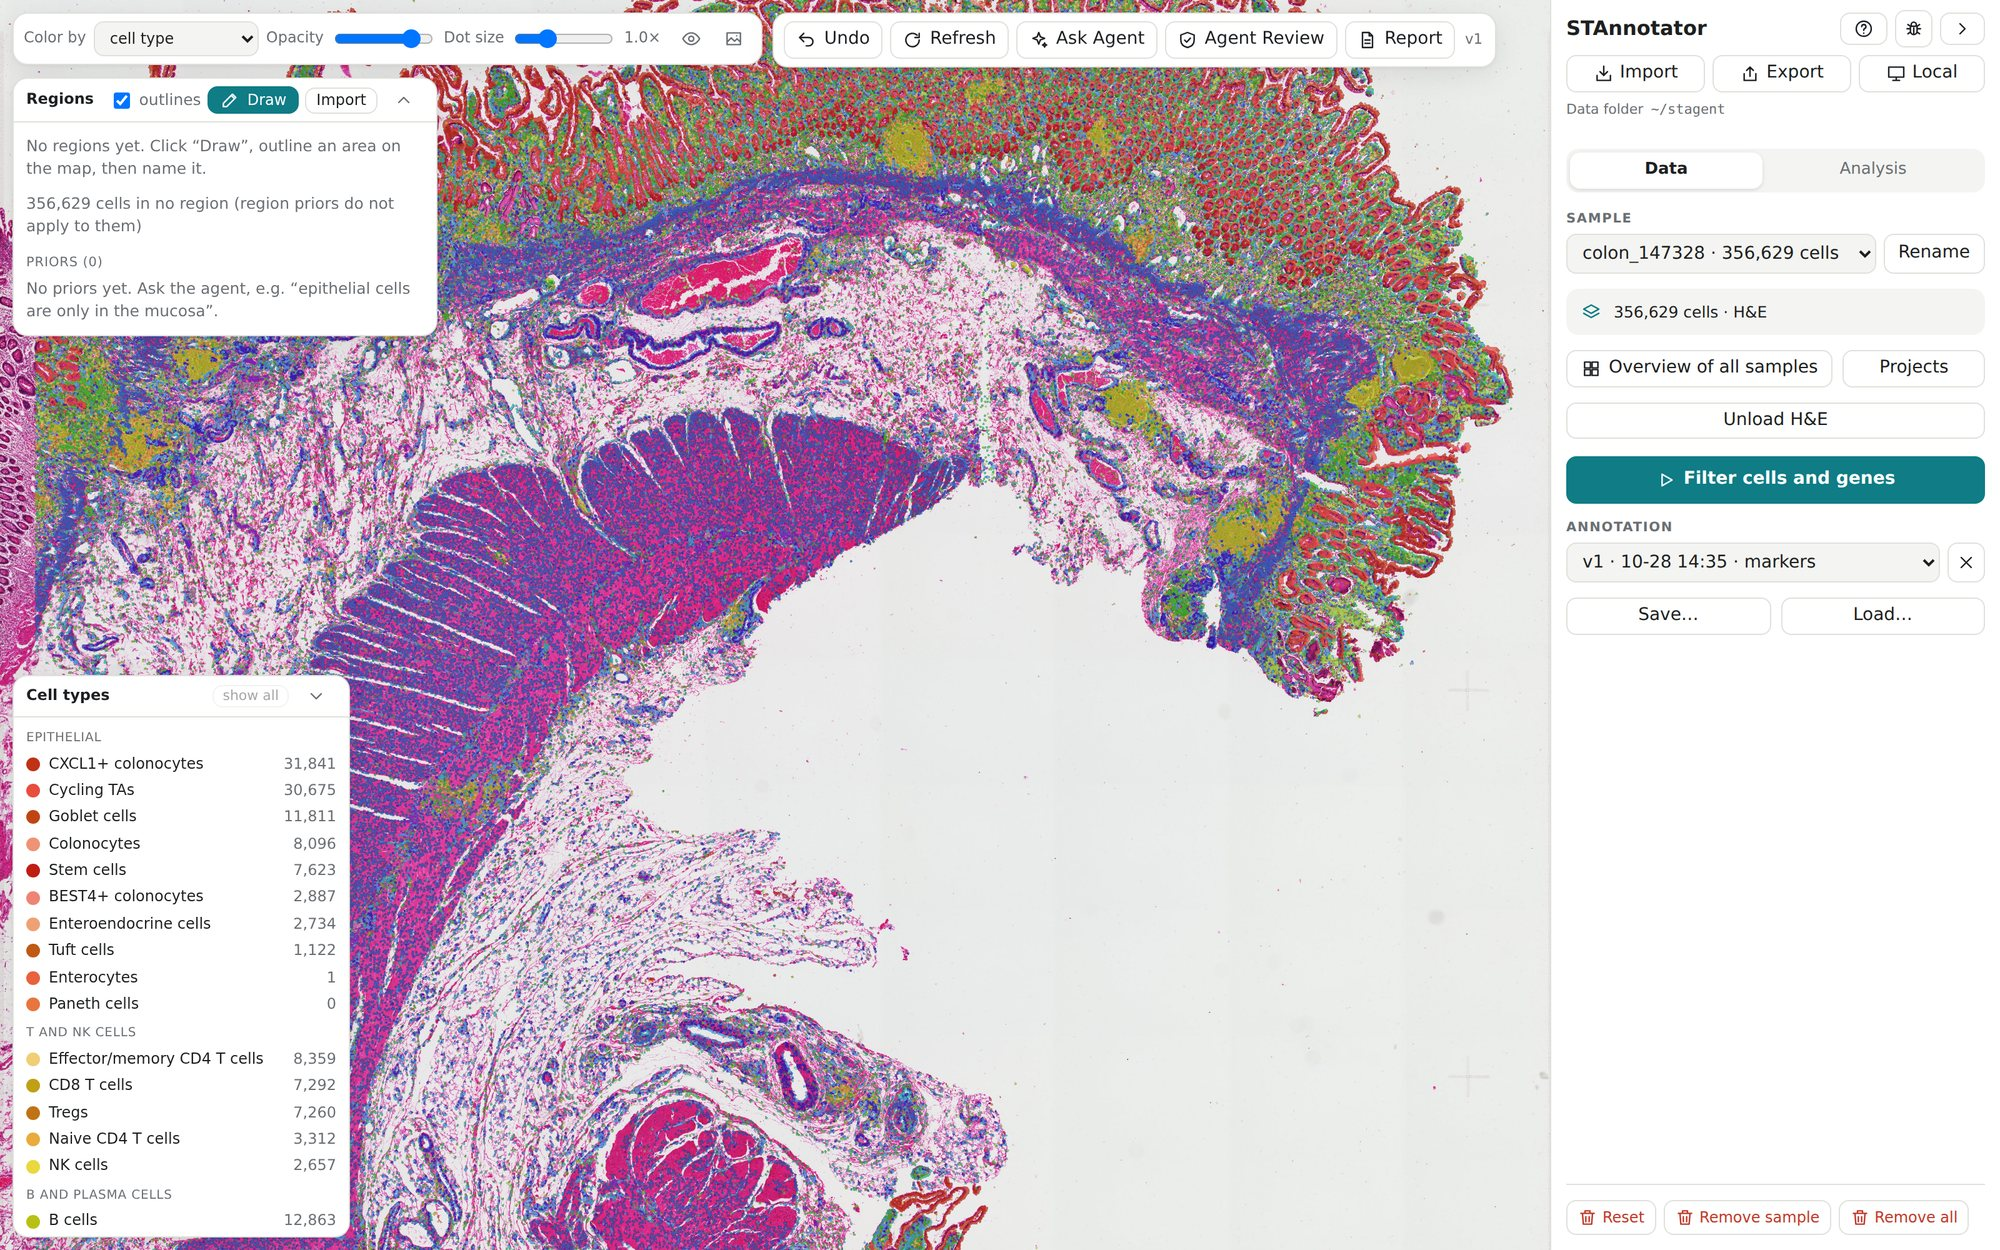
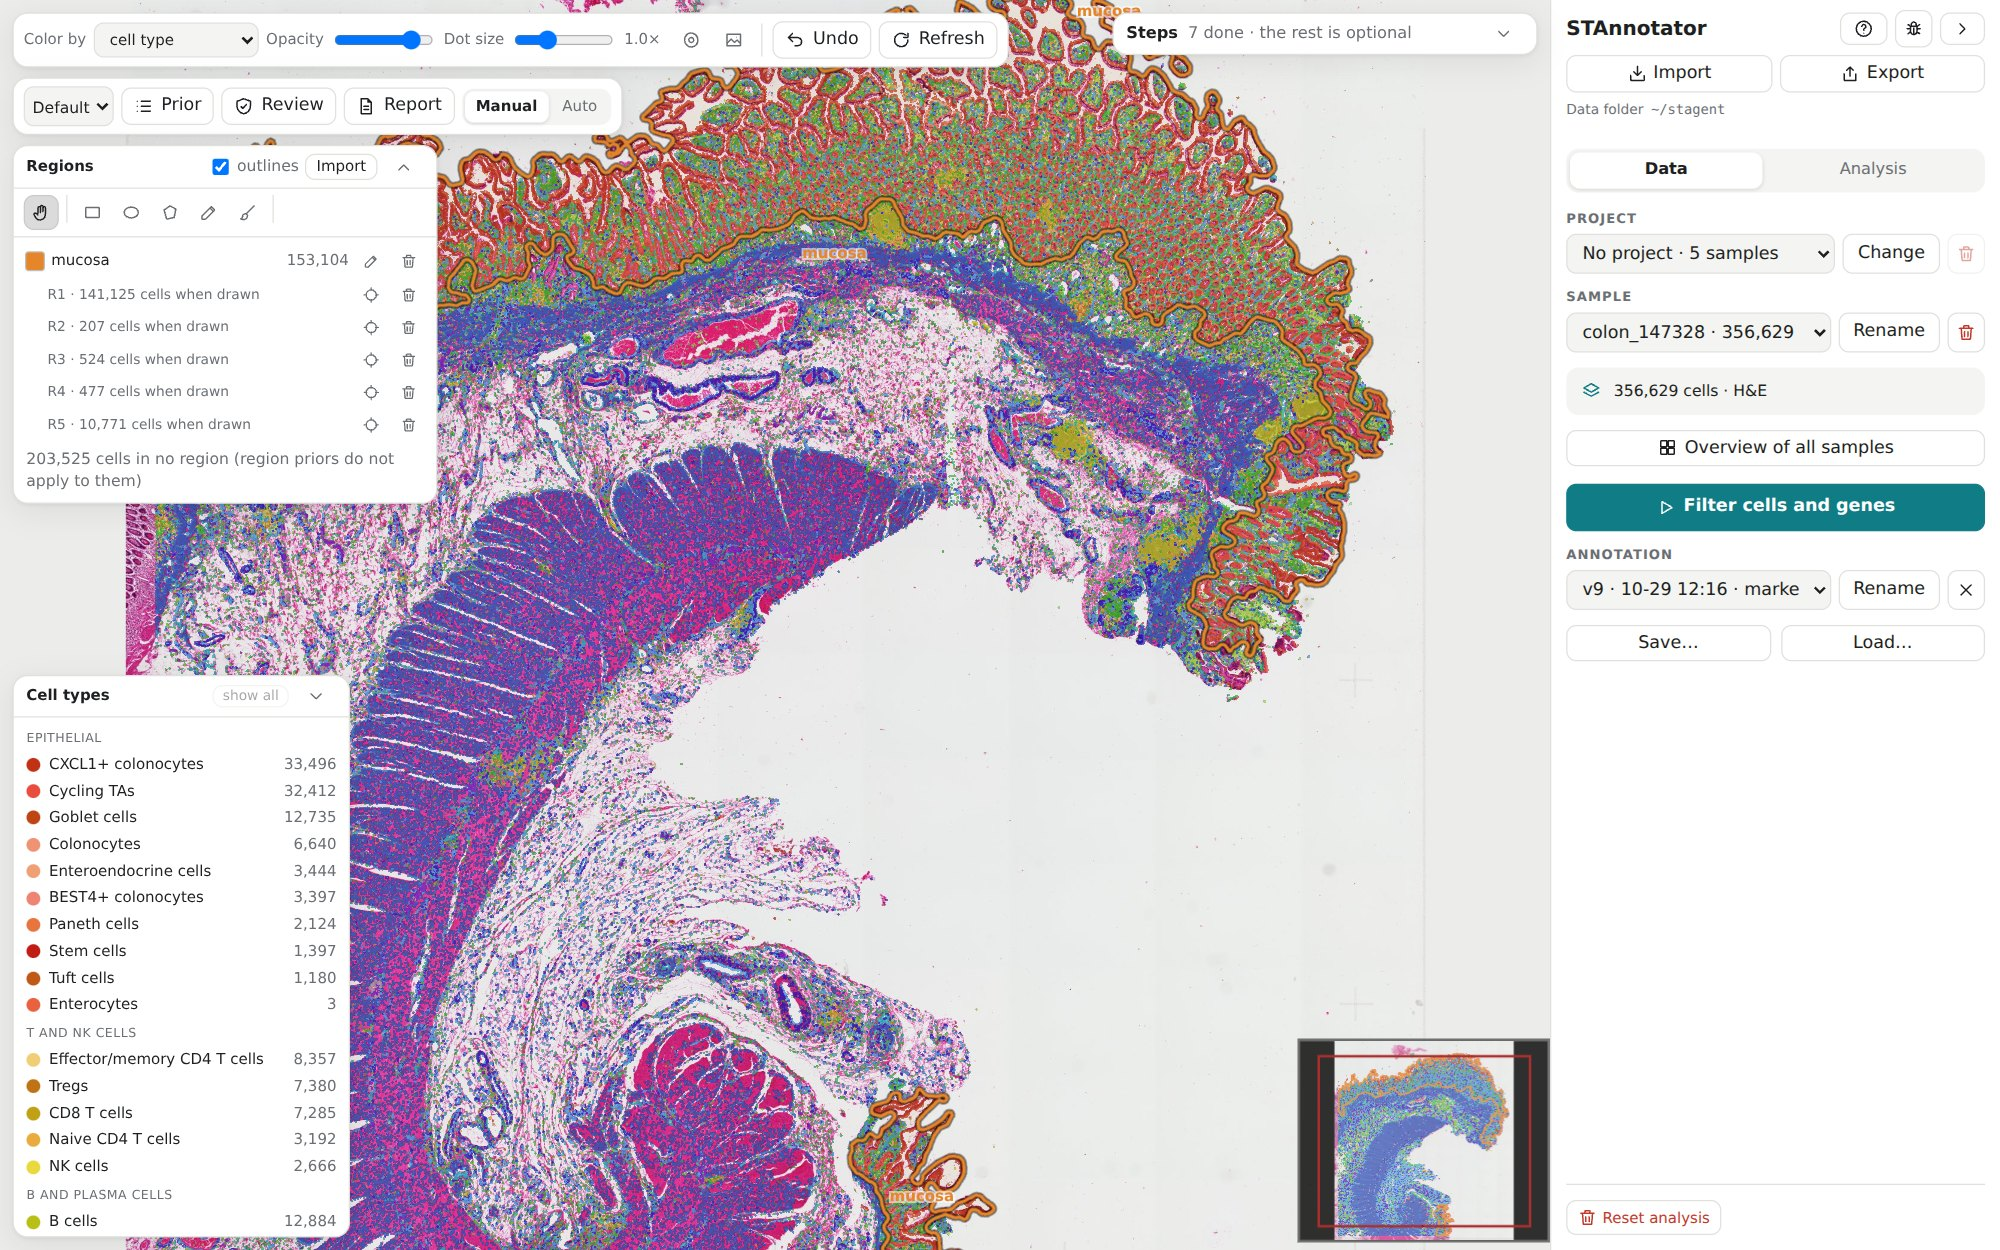
Website: the main screenshot from v0.2.59 (Steps, Prior / Review / Report bar, Regions drawing tools, Project box, overview map; the mucosa outlined)

diff --git a/docs/index.html b/docs/index.html
@@ -391,13 +391,13 @@ footer .counted { flex-basis: 100%; margin: 0; }
 
       <div class="slide">
         <figure>
-          <img src="assets/app-overview.jpg?v=0.2.48" width="2000" height="1250"
-               alt="The STAnnotator window: a colon section on its H&amp;E with each cell drawn as a dot colored by cell type, showing the mucosa, lymphoid follicles and muscle, the cell type legend with counts on the left, and the Data panel on the right.">
+          <img src="assets/app-overview.jpg?v=0.2.59" width="2000" height="1250"
+               alt="The STAnnotator window: a colon section on its H&amp;E with each cell drawn as a dot colored by cell type, showing the mucosa (outlined as a drawn region), lymphoid follicles and muscle; the Regions panel with its drawing tools and the cell type legend with counts on the left, the folded Steps list at the top, and the Data panel on the right.">
         </figure>
         <div class="label" aria-label="Specimen shown">
           <b>Human colon</b><span>SCP2927, section 147328</span>
           <b>Xenium</b><span>480 genes · <span class="num">356,629</span> cells</span>
-          <b>Annotated</b><span>from a marker list, version 1</span>
+          <b>Annotated</b><span>from a marker list, the mucosa outlined</span>
         </div>
       </div>
     </div>
